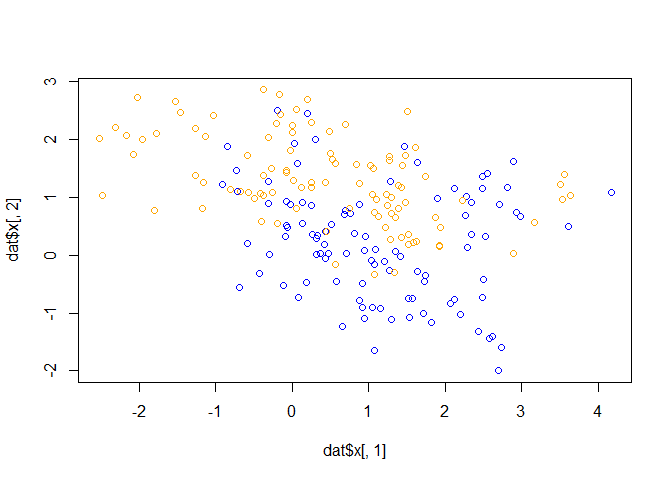
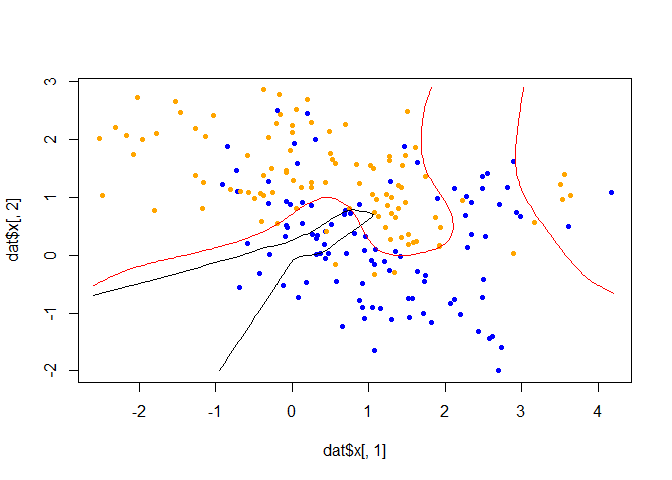
upload extra credit

diff --git a/Homework-7/Homework-7.md b/Homework-7/Homework-7.md
@@ -22,6 +22,10 @@
     library(tidyr)
     library(ggplot2)
 
+# 1. Work through “Image Classification” tutorial
+
+## Import the Fashion MNIST dataset
+
     fashion_mnist<-dataset_fashion_mnist()
 
     ## Loaded Tensorflow version 2.8.0
@@ -31,6 +35,8 @@
     c(test_images,test_labels)%<-%fashion_mnist$test
 
     class_names=c('T-shirt/top',"Trouser","Pullover","Dress","Coat","Sandal","Shirt","Sneaker","Bag","Ankle foot")
+
+## Explore the data
 
     image_1<-as.data.frame(train_images[1,,])
     colnames(image_1)<-seq_len(ncol(image_1))
@@ -45,6 +51,8 @@
     train_images<-train_images/255
     test_images<-test_images/255
 
+## Preprocess the data
+
     par(mfcol=c(5,5))
     par(mar=c(0,0,1.5,0),xaxs="i",yaxs="i")
     for (i in 1:25){
@@ -55,7 +63,7 @@
 
 ![](Homework-7_files/figure-markdown_strict/unnamed-chunk-5-1.png)
 
-Build the model
+## Build the model
 
     model<-keras_model_sequential()
     model %>%
@@ -63,7 +71,7 @@ Build the model
       layer_dense(units = 128,activation = "relu") %>%
       layer_dense(units = 10,activation="softmax")
 
-Compile the model
+## Compile the model
 
     model %>% compile(
       optimizer="adam",
@@ -71,11 +79,11 @@ Compile the model
       metrics=c("accuracy")
     )
 
-Train the model
+## Train the model
 
     model %>% fit(train_images,train_labels,epochs=5,verbose=2)
 
-Evaluate Accuracy
+## Evaluate Accuracy
 
     score<-model%>% evaluate(test_images,test_labels,verbose=0)
 
@@ -83,8 +91,8 @@ Evaluate Accuracy
 
     predictions[1,]
 
-    ##  [1] 1.985246e-06 2.646846e-10 2.443136e-06 3.414826e-09 2.960140e-07
-    ##  [6] 1.416149e-02 9.017543e-07 1.003902e-02 4.826727e-06 9.757891e-01
+    ##  [1] 1.050784e-05 9.667837e-07 1.509286e-06 3.276473e-07 1.769340e-06
+    ##  [6] 1.909232e-02 2.088605e-06 4.972079e-02 9.112405e-05 9.310787e-01
 
     which.max(predictions[1,])
 
@@ -93,7 +101,7 @@ Evaluate Accuracy
     class_pred<-model %>% predict(test_images)%>% k_argmax()
     class_pred[1:20]
 
-    ## tf.Tensor([9 2 1 1 6 1 4 6 5 7 4 5 7 3 4 1 2 2 8 0], shape=(20,), dtype=int64)
+    ## tf.Tensor([9 2 1 1 6 1 4 6 5 7 4 5 5 3 4 1 2 2 8 0], shape=(20,), dtype=int64)
 
     test_labels
 
@@ -376,6 +384,8 @@ Evaluate Accuracy
     ##  [9937] 0 9 5 3 1 5 1 3 5 0 2 6 1 5 3 0 8 6 9 6 9 6 0 4 1 6 6 4 9 1 4 9 7 8 2 6
     ##  [9973] 2 9 7 8 5 6 9 6 0 0 8 1 3 2 7 5 8 4 5 6 8 9 1 9 1 8 1 5
 
+## Plot images with predictions
+
     par(mfcol=c(5,5))
     par(mar=c(0,0,1.5,0),xaxs="i",yaxs="i")
     for (i in 1:25){
@@ -403,19 +413,17 @@ Evaluate Accuracy
     predictions<-model %>% predict(img)
     predictions
 
-    ##              [,1]         [,2]         [,3]         [,4]        [,5]      [,6]
-    ## [1,] 1.985246e-06 2.646852e-10 2.443136e-06 3.414826e-09 2.96014e-07 0.0141615
-    ##             [,7]       [,8]         [,9]     [,10]
-    ## [1,] 9.01756e-07 0.01003902 4.826718e-06 0.9757891
+    ##              [,1]         [,2]         [,3]         [,4]         [,5]
+    ## [1,] 1.050783e-05 9.667837e-07 1.509283e-06 3.276467e-07 1.769337e-06
+    ##            [,6]         [,7]       [,8]         [,9]     [,10]
+    ## [1,] 0.01909231 2.088597e-06 0.04972072 9.112404e-05 0.9310787
 
     prediction<-predictions[1,]-1
     which.max(prediction)
 
     ## [1] 10
 
-1.  Re-implement simple neural network dicussed during lecture
-
-<!-- -->
+# 2. Re-implement simple neural network dicussed during lecture
 
     #############################
     ## Basic Neural Networks in R
@@ -656,10 +664,203 @@ Train the Model
 
     model %>% fit(dat$x,dat$y,epochs=5,verbose=2)
 
-1.  Create a figure to illustrate the predictions compared to nnet
+# 3. Create a figure to illustrate the predictions compared to nnet
 
-<!-- -->
+## Fit nnet function
 
-    plot(dat$x[,1],dat$x[,2],col=ifelse(dat$y==0,"blue","orange"))
+    nnet<-nnet(x=dat$x,y=dat$y,size = 10,entropy=TRUE,decay=0)
 
-![](Homework-7_files/figure-markdown_strict/unnamed-chunk-17-1.png)
+    ## # weights:  41
+    ## initial  value 150.926172 
+    ## iter  10 value 97.218035
+    ## iter  20 value 82.276361
+    ## iter  30 value 74.556636
+    ## iter  40 value 71.190518
+    ## iter  50 value 69.953669
+    ## iter  60 value 67.248824
+    ## iter  70 value 65.024126
+    ## iter  80 value 64.649411
+    ## iter  90 value 64.104008
+    ## iter 100 value 61.770042
+    ## final  value 61.770042 
+    ## stopped after 100 iterations
+
+    nnet_pred<-predict(nnet,dat$xnew,type="class")
+    nnet_mx<-matrix(nnet_pred,length(dat$px1),length(dat$px2))
+
+    plot(dat$x[,1],dat$x[,2],col=ifelse(dat$y==0,"blue","orange"),pch=20)
+    prob<-matrix(dat$prob,length(dat$px1),length(dat$px2))
+
+    # Draw Bayes Boundary
+    bd<-contourLines(dat$px1,dat$px2,prob,levels=0.5)
+    line<-sapply(bd,lines,col="red")
+
+    # Predict in keras
+    kera_prob<-model %>%predict(dat$xnew)
+    #kera_pred<-model %>%predict(dat$xnew)%>% k_argmax()
+
+    # keras boundary
+    keras_mx<-matrix(kera_prob[,1],length(dat$px1),length(dat$px2))
+    keras_bd<-contourLines(dat$px1,dat$px2,keras_mx,levels = 0.5)
+    sapply(keras_bd,lines)
+
+    ## [[1]]
+    ## NULL
+
+    # Plot nnet boundary
+    nnet_bd<-contourLines(dat$px1,dat$px2,nnet_mx,levels=0.5)
+    sapply(nnet_bd,lines,col="green")
+
+![](Homework-7_files/figure-markdown_strict/unnamed-chunk-18-1.png)
+
+    ## [[1]]
+    ## NULL
+    ## 
+    ## [[2]]
+    ## NULL
+    ## 
+    ## [[3]]
+    ## NULL
+    ## 
+    ## [[4]]
+    ## NULL
+    ## 
+    ## [[5]]
+    ## NULL
+    ## 
+    ## [[6]]
+    ## NULL
+    ## 
+    ## [[7]]
+    ## NULL
+    ## 
+    ## [[8]]
+    ## NULL
+    ## 
+    ## [[9]]
+    ## NULL
+    ## 
+    ## [[10]]
+    ## NULL
+    ## 
+    ## [[11]]
+    ## NULL
+    ## 
+    ## [[12]]
+    ## NULL
+    ## 
+    ## [[13]]
+    ## NULL
+    ## 
+    ## [[14]]
+    ## NULL
+    ## 
+    ## [[15]]
+    ## NULL
+    ## 
+    ## [[16]]
+    ## NULL
+    ## 
+    ## [[17]]
+    ## NULL
+
+**Extra Credit**
+
+## Pre-process data
+
+    fashion_mnist<-dataset_fashion_mnist()
+
+
+    c(train_images,train_labels)%<-% fashion_mnist$train
+
+    c(test_images,test_labels)%<-%fashion_mnist$test
+
+    class_names=c('T-shirt/top',"Trouser","Pullover","Dress","Coat","Sandal","Shirt","Sneaker","Bag","Ankle foot")
+
+    train_images<-train_images/255
+    test_images<-test_images/255
+
+## Create the convolution base
+
+    model_ec<-keras_model_sequential() %>%
+      layer_conv_2d(filters = 32,kernel_size = c(3,3),activation = "relu",input_shape = c(28,28,1))%>%
+      layer_max_pooling_2d(pool_size = c(2,2)) %>%
+      layer_conv_2d(filter=64,kernel_size=c(3,3),activation="relu")%>%
+      layer_max_pooling_2d(pool_size = c(2,2)) %>%
+      layer_conv_2d(filters=64,kernel_size = c(3,3),activation = "relu")
+
+    summary(model_ec)
+
+    ## Model: "sequential_2"
+    ## ________________________________________________________________________________
+    ##  Layer (type)                       Output Shape                    Param #     
+    ## ================================================================================
+    ##  conv2d_2 (Conv2D)                  (None, 26, 26, 32)              320         
+    ##                                                                                 
+    ##  max_pooling2d_1 (MaxPooling2D)     (None, 13, 13, 32)              0           
+    ##                                                                                 
+    ##  conv2d_1 (Conv2D)                  (None, 11, 11, 64)              18496       
+    ##                                                                                 
+    ##  max_pooling2d (MaxPooling2D)       (None, 5, 5, 64)                0           
+    ##                                                                                 
+    ##  conv2d (Conv2D)                    (None, 3, 3, 64)                36928       
+    ##                                                                                 
+    ## ================================================================================
+    ## Total params: 55,744
+    ## Trainable params: 55,744
+    ## Non-trainable params: 0
+    ## ________________________________________________________________________________
+
+## Add dense layers on top
+
+    model_ec %>%
+      layer_flatten(input_shape = c(28,28)) %>%
+      layer_dense(units = 128,activation = "relu") %>%
+      layer_dense(units = 10,activation="softmax")
+    summary(model_ec)
+
+    ## Model: "sequential_2"
+    ## ________________________________________________________________________________
+    ##  Layer (type)                       Output Shape                    Param #     
+    ## ================================================================================
+    ##  conv2d_2 (Conv2D)                  (None, 26, 26, 32)              320         
+    ##                                                                                 
+    ##  max_pooling2d_1 (MaxPooling2D)     (None, 13, 13, 32)              0           
+    ##                                                                                 
+    ##  conv2d_1 (Conv2D)                  (None, 11, 11, 64)              18496       
+    ##                                                                                 
+    ##  max_pooling2d (MaxPooling2D)       (None, 5, 5, 64)                0           
+    ##                                                                                 
+    ##  conv2d (Conv2D)                    (None, 3, 3, 64)                36928       
+    ##                                                                                 
+    ##  flatten_2 (Flatten)                (None, 576)                     0           
+    ##                                                                                 
+    ##  dense_5 (Dense)                    (None, 128)                     73856       
+    ##                                                                                 
+    ##  dense_4 (Dense)                    (None, 10)                      1290        
+    ##                                                                                 
+    ## ================================================================================
+    ## Total params: 130,890
+    ## Trainable params: 130,890
+    ## Non-trainable params: 0
+    ## ________________________________________________________________________________
+
+## Compile and train the model
+
+    model_ec %>% compile(
+      optimizer="adam",
+      loss="sparse_categorical_crossentropy",
+      metrics="accuracy"
+    )
+
+    history<-model_ec %>%
+      fit(x=train_images,y=train_labels,epochs=10,validation_data=fashion_mnist$test,
+          verbose=2)
+
+## Evaluate the model
+
+    plot(history)
+
+    ## `geom_smooth()` using formula 'y ~ x'
+
+![](Homework-7_files/figure-markdown_strict/unnamed-chunk-23-1.png)
